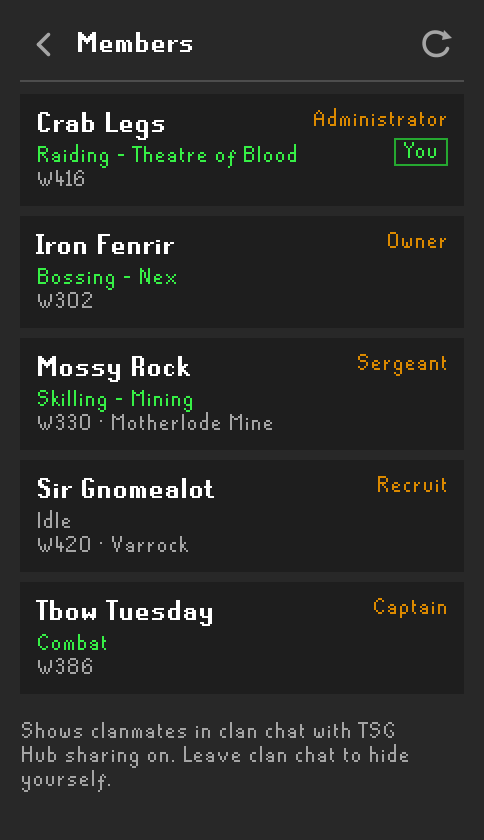
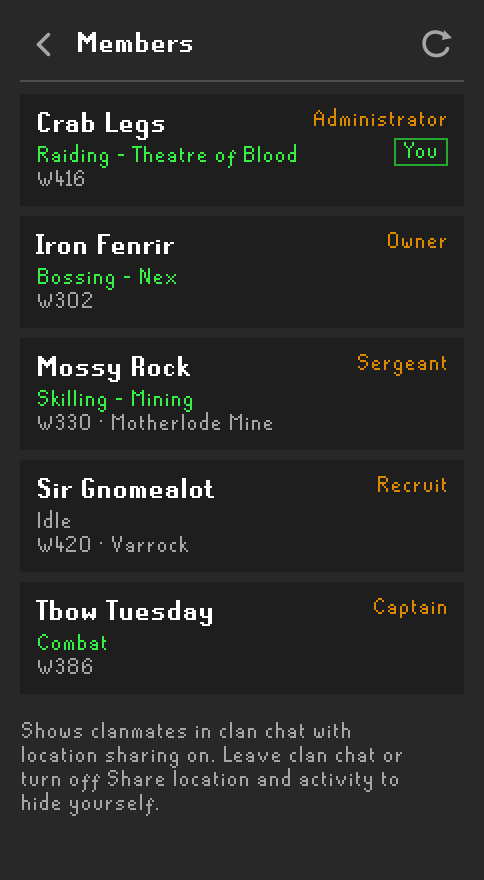
feat: add location sharing setting

diff --git a/src/test/java/com/tsghub/ReadmeScreenshots.java b/src/test/java/com/tsghub/ReadmeScreenshots.java
@@ -32,6 +32,7 @@ public class ReadmeScreenshots
 	private static final int SCALE = 2;
 	private static final int SIDEBAR_W = 242;
 	private static JsonObject data;
+	private static boolean sharing;
 	private static File out;
 
 	public static void main(String[] args) throws Exception
@@ -61,12 +62,12 @@ public class ReadmeScreenshots
 		set(plugin, "detectedClanRank", 100);
 		set(plugin, "detectedPlayerName", "Crab Legs");
 		set(plugin, "groups", new TsgHubGroups(plugin, null, (PartyService) unsafe().allocateInstance(PartyService.class), null, null, null));
-		set(plugin, "presence", new TsgHubPresence(plugin, null, null, null, null, null, null));
+		set(plugin, "presence", new TsgHubPresence(plugin, null, null, null, stopped(), null, null));
 
 		TsgHubSidebarPanel sidebar = new TsgHubSidebarPanel(plugin, new GroupMembersPanel(new GroupViewSettings() {}, null, null));
 
 		sidebar.showSharingOff();
-		shoot(sidebar, SIDEBAR_W, 250, "sharing");
+		shoot(sidebar, SIDEBAR_W, 210, "sharing");
 
 		JsonArray events = data.getAsJsonObject("eventList").getAsJsonArray("events");
 		for (int i = 0; i < events.size(); i++)
@@ -96,8 +97,9 @@ public class ReadmeScreenshots
 		sidebar.showParties();
 		BufferedImage parties = shoot(sidebar, SIDEBAR_W, 480, "parties");
 
+		sharing = true;
 		sidebar.showMembers();
-		shoot(sidebar, SIDEBAR_W, 420, "members");
+		shoot(sidebar, SIDEBAR_W, 440, "members");
 
 		TsgHubPanel organizer = new TsgHubPanel(plugin);
 		organizer.setManagedEvents(data.getAsJsonObject("managed").getAsJsonArray("events"));
@@ -201,13 +203,20 @@ public class ReadmeScreenshots
 		return null;
 	}
 
-	// Interface stub returning false, 0 or null.
+	private static java.util.concurrent.ScheduledExecutorService stopped()
+	{
+		java.util.concurrent.ScheduledExecutorService executor = java.util.concurrent.Executors.newSingleThreadScheduledExecutor();
+		executor.shutdown();
+		return executor;
+	}
+
+	// Interface stub returning false, 0 or null, with sharing on once enabled.
 	@SuppressWarnings("unchecked")
 	private static <T> T stub(Class<T> type)
 	{
 		return (T) Proxy.newProxyInstance(type.getClassLoader(), new Class<?>[]{type}, (proxy, method, args) -> {
 			Class<?> r = method.getReturnType();
-			if (r == boolean.class) return false;
+			if (r == boolean.class) return sharing && (method.getName().equals("dataSharingOptIn") || method.getName().equals("shareLocation"));
 			if (r == int.class) return 0;
 			if (r == long.class) return 0L;
 			return null;

diff --git a/src/main/java/com/tsghub/TsgHubSidebarPanel.java b/src/main/java/com/tsghub/TsgHubSidebarPanel.java
@@ -348,8 +348,7 @@ final class TsgHubSidebarPanel extends PluginPanel
 		page.add(TsgHubUi.label("Share your progress", TsgHubUi.TEXT, FontManager.getRunescapeBoldFont()));
 		page.add(Box.createVerticalStrut(6));
 		page.add(TsgHubUi.wrapped("TSG Hub tracks your boss kills, drops and raids for clan events. "
-			+ "To do that it sends your RuneScape name, clan and rank, and that progress to your clan's event service. "
-			+ "While you're in clan chat, clanmates also see your world, area and what you're doing.",
+			+ "To do that it sends your RuneScape name, clan and rank, and that progress to your clan's event service.",
 			TsgHubUi.MUTED, FontManager.getRunescapeSmallFont(), TEXT_W));
 		page.add(Box.createVerticalStrut(4));
 		page.add(TsgHubUi.wrapped("Nothing is ever posted in game chat.", TsgHubUi.MUTED, FontManager.getRunescapeSmallFont(), TEXT_W));
@@ -466,6 +465,11 @@ final class TsgHubSidebarPanel extends PluginPanel
 		return members.size() + " online";
 	}
 
+	void locationSharingChanged()
+	{
+		if (view == View.MEMBERS) renderMembers();
+	}
+
 	void setMembers(JsonArray members)
 	{
 		this.members = members;
@@ -491,7 +495,7 @@ final class TsgHubSidebarPanel extends PluginPanel
 		}
 		else if (members.size() == 0)
 		{
-			page.add(errorPanel("Nobody online", "Clanmates show up here while they're in clan chat with TSG Hub sharing on."));
+			page.add(errorPanel("Nobody online", "Clanmates show up here while they're in clan chat with location sharing on."));
 		}
 		else
 		{
@@ -502,7 +506,10 @@ final class TsgHubSidebarPanel extends PluginPanel
 			}
 		}
 		page.add(Box.createVerticalStrut(8));
-		page.add(TsgHubUi.wrapped("Shows clanmates in clan chat with TSG Hub sharing on. Leave clan chat to hide yourself.", TsgHubUi.MUTED, small, TEXT_W));
+		if (plugin.locationSharingEnabled())
+			page.add(TsgHubUi.wrapped("Shows clanmates in clan chat with location sharing on. Leave clan chat or turn off Share location and activity to hide yourself.", TsgHubUi.MUTED, small, TEXT_W));
+		else
+			page.add(TsgHubUi.wrapped("You're hidden. Turn on Share location and activity in the TSG Hub settings to appear here.", TsgHubUi.WARNING, small, TEXT_W));
 		refreshPage();
 	}
 

diff --git a/src/main/java/com/tsghub/TsgHubConfig.java b/src/main/java/com/tsghub/TsgHubConfig.java
@@ -8,11 +8,20 @@ import net.runelite.client.config.ConfigSection;
 @ConfigGroup("tsghub")
 public interface TsgHubConfig extends Config
 {
+	@ConfigSection(name = "Sharing", description = "What TSG Hub sends to the clan's event service.", position = 0)
+	String sharingSection = "sharing";
+
 	@ConfigSection(name = "Party", description = "How clan parties look in the TSG Hub sidebar.", position = 10)
 	String partySection = "party";
 
-	@ConfigItem(keyName = "dataSharingOptIn", position = 0, name = "Share game and clan progress", description = "Opt in to send your RuneScape name, detected clan and rank, PvM progress, loot received during events you join, submitted claims, clan chat presence, and your world, area name and current activity while you're in clan chat to the TSG Hub service. Progress and tile-completion notices are local to your chatbox; no game chat is sent.")
+	@ConfigItem(keyName = "dataSharingOptIn", position = 0, section = sharingSection, name = "Share game and clan progress", description = "Opt in to send your RuneScape name, detected clan and rank, PvM progress, loot received during events you join, submitted claims, and clan chat presence to the TSG Hub service. Progress and tile-completion notices are local to your chatbox; no game chat is sent.")
 	default boolean dataSharingOptIn()
+	{
+		return false;
+	}
+
+	@ConfigItem(keyName = "shareLocation", position = 1, section = sharingSection, name = "Share location and activity", description = "While you're in clan chat, show clanmates your world, area name and what you're doing (for example Skilling - Mining) in the Members list. Your exact tile is never sent. Requires Share game and clan progress.")
+	default boolean shareLocation()
 	{
 		return false;
 	}

diff --git a/src/main/java/com/tsghub/TsgHubPlugin.java b/src/main/java/com/tsghub/TsgHubPlugin.java
@@ -251,6 +251,7 @@ public class TsgHubPlugin extends Plugin
 
 	String getDetectedClanName() { return detectedClanName; }
 	boolean sharingEnabled() { return config.dataSharingOptIn(); }
+	boolean locationSharingEnabled() { return config.dataSharingOptIn() && config.shareLocation(); }
 	TsgHubGroups groups() { return groups; }
 	TsgHubPresence presence() { return presence; }
 	boolean inClanChat() { return inClanChat; }
@@ -362,6 +363,12 @@ public class TsgHubPlugin extends Plugin
 		{
 			boolean expand = "partyExpandMembers".equals(event.getKey());
 			SwingUtilities.invokeLater(() -> sidebar.groupSettingsChanged(expand));
+			return;
+		}
+		if ("shareLocation".equals(event.getKey()))
+		{
+			if (!config.shareLocation() && presence != null) presence.leave();
+			SwingUtilities.invokeLater(() -> sidebar.locationSharingChanged());
 			return;
 		}
 		if (!"dataSharingOptIn".equals(event.getKey())) return;

diff --git a/src/main/java/com/tsghub/TsgHubPresence.java b/src/main/java/com/tsghub/TsgHubPresence.java
@@ -142,7 +142,7 @@ final class TsgHubPresence
 
 	private JsonObject snapshot()
 	{
-		if (!plugin.sharingEnabled() || !plugin.isInHubClan() || !plugin.inClanChat()) return null;
+		if (!plugin.locationSharingEnabled() || !plugin.isInHubClan() || !plugin.inClanChat()) return null;
 		if (client.getGameState() != GameState.LOGGED_IN) return null;
 		Player player = client.getLocalPlayer();
 		long hash = client.getAccountHash();

diff --git a/README.md b/README.md
@@ -91,7 +91,7 @@ The **Members** section lists clanmates who are in clan chat with sharing on. Ea
 
 Activity is detected automatically from where you are and the XP you gain. Only the area name is sent, never your exact tile.
 
-Leave clan chat to hide yourself. You also drop off the list when you log out or turn sharing off.
+Turn on **Share location and activity** under **Sharing** in the plugin settings to appear. It's off by default. Leave clan chat or turn it off to hide yourself, and you also drop off the list when you log out.
 
 </td>
 </tr>
